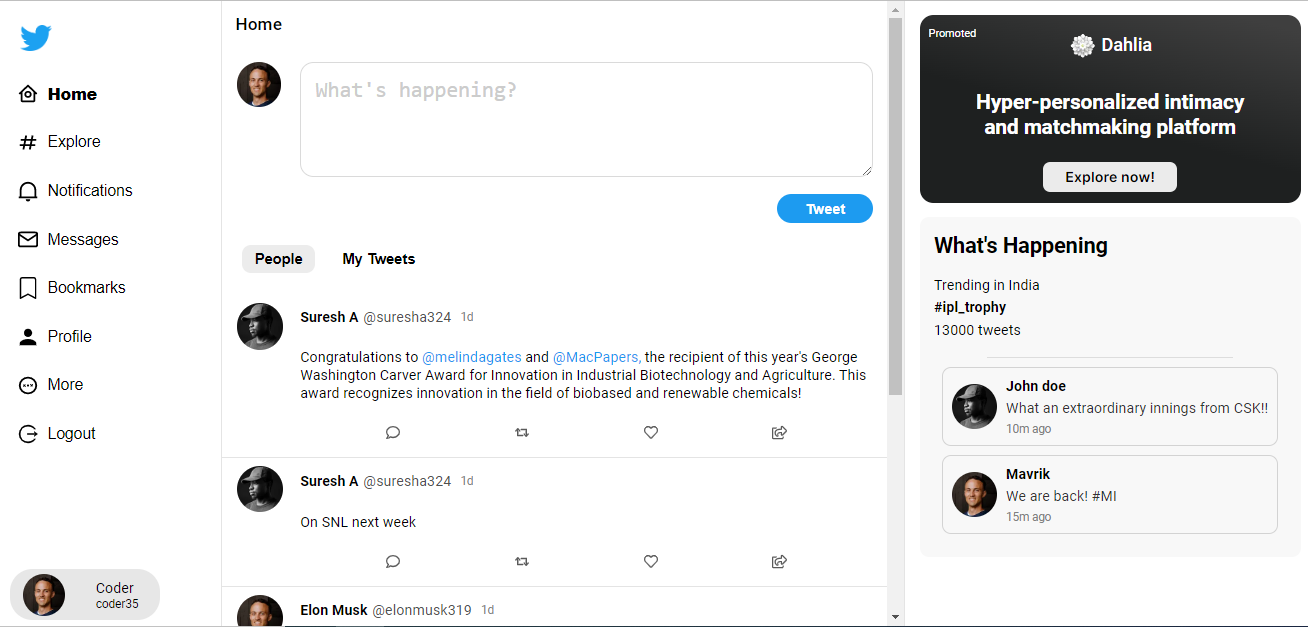
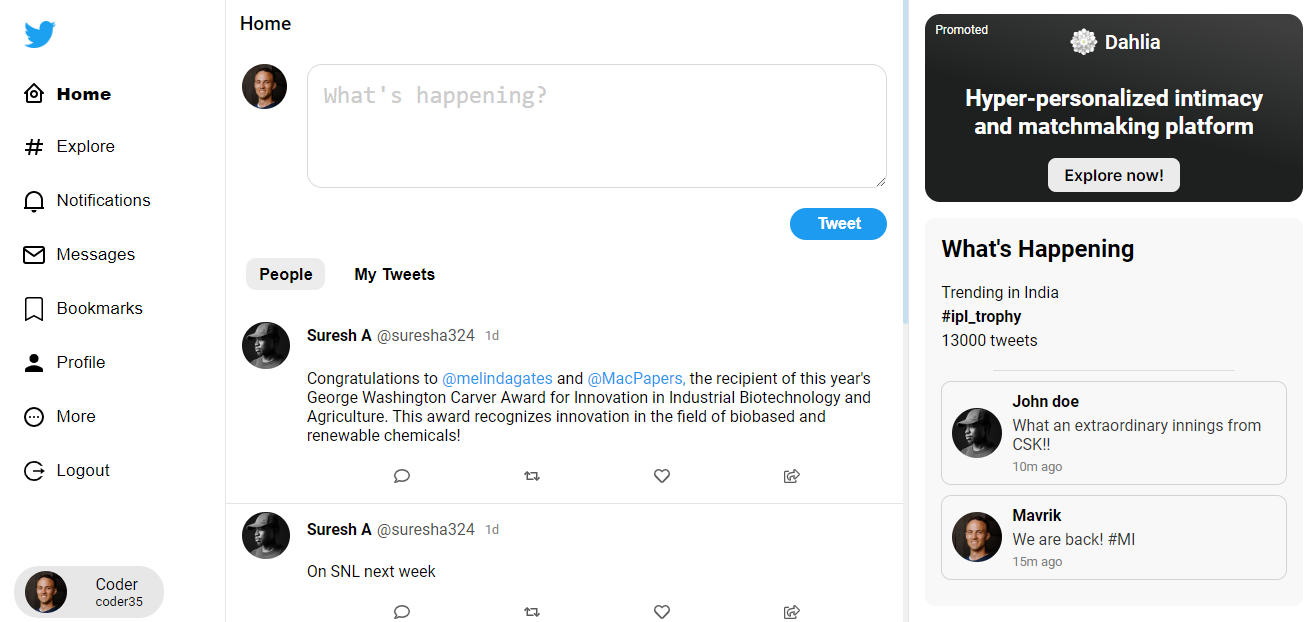
Refactor: Landing page

diff --git a/styles/Feed.module.scss b/styles/Feed.module.scss
@@ -83,7 +83,26 @@
     align-items: center;
     overflow-y: auto;
     border-right: 1px solid #e4e4e4;
-
+    &::-webkit-scrollbar {
+      width: 5px;
+    }
+  
+    &::-webkit-scrollbar-track {
+      background: #f1f1f1;
+    }
+  
+    /* Handle */
+    &::-webkit-scrollbar-thumb {
+      background: #ccc;
+      background: rgba(#1d9bf0, 0.2);
+      border-radius: 15px;
+      cursor: pointer;
+    }
+  
+    /* Handle on hover */
+    &::-webkit-scrollbar-thumb:hover {
+      background: #555;
+    }
     .header {
       width: 100%;
       display: flex;

diff --git a/styles/Landing.module.scss b/styles/Landing.module.scss
@@ -114,9 +114,10 @@
     display: flex;
     justify-content: center;
     align-items: center;
+    height: 100%;
     img {
       width: 100%;
-      height: 100%;
+      height: 90%;
       border: 1px solid #ccc;
       border-radius: 10px;
     }
